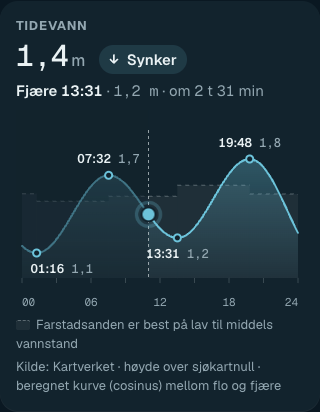
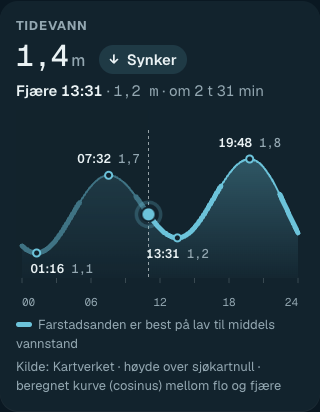
Tidevannskort: foretrukket vannstand vises som tykkere kurve (ikke trappetrinnsbånd), nye skjermbilder (Theodor 16.10)
Andelen av veien fra fjære til flo regnes per halvsyklus som tide.state_at, så den tykke delen følger kurven.
Testen sjekker at den tykke delen ligger på kurven og følger «lav til middels» for Farstadsanden.

diff --git a/docs/js/tidevann.js b/docs/js/tidevann.js
@@ -103,7 +103,7 @@
     const top = mini ? 18 : T, bunn = mini ? Hh - 22 : B;
     const L = PAD, R = W - PAD;
     const X = (t)=> L + (R - L) * (t - d0) / (d1 - d0);
-    const pts = []; for(let i = 0; i <= 240; i++){ const t = d0 + (d1 - d0) * i / 240; const lv = nivaa(ev, t); pts.push(lv ? [t, lv.cm] : null); }
+    const pts = []; for(let i = 0; i <= 240; i++){ const t = d0 + (d1 - d0) * i / 240; const lv = nivaa(ev, t); pts.push(lv ? [t, lv.cm, lv] : null); }
     const ok = pts.filter(Boolean);
     if(ok.length < 2){ el.innerHTML = `<p class="tv-mangler">Tidevann mangler</p>`; return null; }
     const dagEv = ev.filter(e=> e.ms >= d0 && e.ms <= d1);
@@ -114,21 +114,22 @@
     for(const p of pts){ if(!p){ pen = false; continue; } d += `${pen ? "L" : "M"}${X(p[0]).toFixed(1)} ${Y(p[1]).toFixed(1)}`; pen = true; }
     const forste = ok[0], siste = ok[ok.length - 1];
     const omraade = `${d}L${X(siste[0]).toFixed(1)} ${bunn + 10}L${X(forste[0]).toFixed(1)} ${bunn + 10}Z`;
-    // foretrukket vannstand: per halvsyklus (fjære→flo eller flo→fjære) er grensen en andel av den syklusens spenn
-    let baand = "";
+    // foretrukket vannstand (Theodor 16.10): selve kurven tegnes tykkere der vannstanden er innenfor spotens preferanse -
+    // ikke et bånd. Andelen av veien fra fjære til flo regnes per halvsyklus (som tide.state_at), så grensen følger kurven.
+    let dPref = "";
     const r = s.tide_regel;
     if(!mini && r && r.prefer && r.prefer.length){
       const iv = intervaller(r);
-      for(let i = 0; i < ev.length - 1; i++){
-        const a = ev[i], b = ev[i+1]; if(a.type === b.type || b.ms < d0 || a.ms > d1) continue;
-        const fj = a.type === "fjære" ? a : b, fl = a.type === "flo" ? a : b;
-        const x0 = X(Math.max(a.ms, d0)), x1 = X(Math.min(b.ms, d1));
-        for(const [l0, l1] of iv){
-          const yTop = l1 >= 1 ? top - 14 : Y(fj.cm + l1 * (fl.cm - fj.cm)), yBun = l0 <= 0 ? bunn + 10 : Y(fj.cm + l0 * (fl.cm - fj.cm));
-          baand += `<rect class="tv-band" x="${x0.toFixed(1)}" y="${yTop.toFixed(1)}" width="${(x1 - x0).toFixed(1)}" height="${Math.max(0, yBun - yTop).toFixed(1)}"/>`;
-          if(l1 < 1) baand += `<line class="tv-band-kant" x1="${x0.toFixed(1)}" x2="${x1.toFixed(1)}" y1="${yTop.toFixed(1)}" y2="${yTop.toFixed(1)}"/>`;
-          if(l0 > 0) baand += `<line class="tv-band-kant" x1="${x0.toFixed(1)}" x2="${x1.toFixed(1)}" y1="${yBun.toFixed(1)}" y2="${yBun.toFixed(1)}"/>`;
-        }
+      const inne = (p)=>{
+        const lv = p[2], fj = lv.a.type === "fjære" ? lv.a : lv.b, fl = lv.a.type === "flo" ? lv.a : lv.b;
+        if(fl.cm === fj.cm) return false;
+        const f = (p[1] - fj.cm) / (fl.cm - fj.cm);
+        return iv.some(([l0, l1])=> f >= l0 - 1e-9 && f <= l1 + 1e-9);
+      };
+      let penP = false;
+      for(const p of pts){
+        if(!p || !inne(p)){ penP = false; continue; }
+        dPref += `${penP ? "L" : "M"}${X(p[0]).toFixed(1)} ${Y(p[1]).toFixed(1)}`; penP = true;
       }
     }
     const smal = W < 520 || mini;
@@ -148,9 +149,9 @@
     const id = `${esc(s.id)}${mini ? "-m" : ""}`;
     el.innerHTML = `<svg class="tv-svg${mini ? " mini" : ""}" viewBox="0 0 ${W} ${Hh}" width="${W}" height="${Hh}" aria-hidden="true">
       <defs><linearGradient id="tvWg-${id}" x1="0" x2="0" y1="0" y2="1"><stop offset="0" class="tv-g0"/><stop offset="1" class="tv-g1"/></linearGradient></defs>
-      <g class="tv-baand">${baand}</g>
       <path class="tv-area" d="${omraade}" fill="url(#tvWg-${id})"/>
       <path class="tv-curve" d="${d}"/>
+      ${dPref ? `<path class="tv-pref" d="${dPref}"/>` : ""}
       ${gatt}
       <g>${etiketter}</g><g>${akse}</g>
       <g class="tv-marker"><line class="tv-mline" x1="0" x2="0" y1="${top - 14}" y2="${bunn + 10}"/><circle class="tv-ring" r="${mini ? 5 : 7}"/><circle class="tv-dot" r="${mini ? 5 : 7}"/></g>

diff --git a/docs/css/ui.css b/docs/css/ui.css
@@ -398,7 +398,8 @@ h1,h2,h3{margin:0;font-family:var(--display);letter-spacing:-.01em}
 .tv-curve{fill:none;stroke:var(--water);stroke-width:2;stroke-linecap:round}
 .tv-past{fill:var(--raised);opacity:.5}   /* demper delen av dagen som har gått (bare i dag) */
 .tv-g0{stop-color:var(--water-top)} .tv-g1{stop-color:var(--water-soft);stop-opacity:.15}
-.tv-band{fill:var(--band)} .tv-band-kant{stroke:var(--band-edge);stroke-width:1;stroke-dasharray:4 4}
+.tv-pref{fill:none;stroke:var(--water);stroke-width:5;stroke-linecap:round;stroke-linejoin:round;transition:opacity .4s 1s}   /* foretrukket vannstand: tykkere kurve, samme farge */
+.tv-svg.intro .tv-pref{opacity:0} .tv-svg.intro.go .tv-pref{opacity:1}
 .tv-ext circle{fill:var(--raised);stroke:var(--water);stroke-width:2}
 .tv-lbl{font-family:var(--body);font-size:12px;font-weight:600;fill:var(--ink)}
 .tv-lbl .t{font-family:var(--mono);font-weight:500;fill:var(--muted)}
@@ -409,7 +410,7 @@ h1,h2,h3{margin:0;font-family:var(--display);letter-spacing:-.01em}
 .tv-ring{fill:none;stroke:var(--water);stroke-width:2;transform-origin:center;transform-box:fill-box;animation:tvPuls 2.6s ease-out infinite}
 .tv-marker{transition:transform .45s cubic-bezier(.3,.7,.2,1)}
 .tv-fot{display:flex;justify-content:space-between;gap:4px 12px;flex-wrap:wrap;margin-top:6px;color:var(--muted);font-size:var(--fs-caption)}
-.tv-sw{display:inline-block;width:14px;height:10px;border-radius:2px;background:var(--band);border-top:1px dashed var(--band-edge);margin-right:6px;vertical-align:-1px}
+.tv-sw{display:inline-block;width:16px;height:5px;border-radius:3px;background:var(--water);margin-right:6px;vertical-align:2px}
 /* animasjon bare første gang kortet kommer i bildet (IntersectionObserver legger på .go) */
 .tv-svg.intro .tv-curve{stroke-dasharray:var(--len);stroke-dashoffset:var(--len)}
 .tv-svg.intro.go .tv-curve{animation:tvTegn 1.1s cubic-bezier(.3,.7,.2,1) forwards}
@@ -423,6 +424,7 @@ h1,h2,h3{margin:0;font-family:var(--display);letter-spacing:-.01em}
 @keyframes tvPuls{0%{transform:scale(1);opacity:.45}80%,100%{transform:scale(2.6);opacity:0}}
 @media (prefers-reduced-motion: reduce){
   .tv-svg.intro .tv-curve{stroke-dasharray:none;stroke-dashoffset:0;animation:none!important}
+  .tv-svg.intro .tv-pref{opacity:1;transition:none}
   .tv-svg.intro .tv-area,.tv-svg.intro .tv-ext{opacity:1;transform:none;animation:none!important}
   .tv-marker{transition:none} .tv-ring{animation:none;opacity:0}
 }

diff --git a/docs/sw.js b/docs/sw.js
@@ -4,7 +4,7 @@
 // hånd. Må stemme med filene, ellers oppdager ikke nettleseren at
 // sw.js-scriptet er likt som før og lar være å hente nytt innhold, sjøl om
 // siden er pushet (se CLAUDE.md sin arbeidsmåte og STATUS.md, 26.09-03.10.2026).
-const CACHE = "nordsurf-809e386a1310";
+const CACHE = "nordsurf-ae8016eefd66";
 const TILES = CACHE + "-fliser";   // detaljflisene (range-biter), eget tak - byttes sammen med CACHE
 const TILES_MAX_ENTRIES = 600;      // ca. 600 range-biter à 1-60 KB: under ca. 15 MB
 // S3 (16.10.2026): listen hadde to filer som ikke finnes (css/kart.css, js/front.js) - da feiler

diff --git a/fetcher/test_svgtekst_browser.py b/fetcher/test_svgtekst_browser.py
@@ -184,7 +184,23 @@ def main():
                     assert sl.get_attribute("role") == "slider", "grafen er ikke role=slider"
                     vt = sl.get_attribute("aria-valuetext")
                     assert vt == f"11:00, {f1(cm)} meter, {'stiger' if stiger else 'synker'}", f"aria-valuetext {where}: {vt}"
-                    assert page.locator("#tideKort .tv-band").count() >= 1, f"bånd for foretrukket vannstand mangler {where}"
+                    # foretrukket vannstand er selve kurven, tykkere - ikke bånd (Theodor 16.10)
+                    assert page.locator("#tideKort .tv-band").count() == 0, f"trappetrinnsbånd igjen {where}"
+                    assert page.locator("#tideKort .tv-pref").count() == 1, f"foretrukket del av kurven mangler {where}"
+                    pref_ok = page.evaluate("""() => {
+                      const pp = (d) => (d.match(/-?[\\d.]+ -?[\\d.]+/g) || []).map(s => s.split(' ').map(Number));
+                      const c = pp(document.querySelector('#tideKort .tv-curve').getAttribute('d'));
+                      const p = pp(document.querySelector('#tideKort .tv-pref').getAttribute('d'));
+                      const key = (q) => q[0].toFixed(1) + ',' + q[1].toFixed(1);
+                      const ck = new Set(c.map(key));
+                      const ys = c.map(q => q[1]), yTop = Math.min(...ys), yBot = Math.max(...ys);
+                      const pys = p.map(q => q[1]);
+                      return {n: p.length, subset: p.every(q => ck.has(key(q))),
+                              // lav til middels: aldri helt oppe ved flo, men med fjære-bunnen
+                              naarFlo: Math.min(...pys) - yTop, naarFjaere: yBot - Math.max(...pys)};
+                    }""")
+                    assert pref_ok["n"] >= 2 and pref_ok["subset"], f"tykk del ligger ikke på kurven {where}: {pref_ok}"
+                    assert pref_ok["naarFlo"] > 3 and pref_ok["naarFjaere"] < 1, f"tykk del følger ikke «lav til middels» {where}: {pref_ok}"
                     fot = page.text_content("#tideKort .tv-fot").strip()
                     assert "Farstadsanden er best på lav til middels vannstand" in fot, f"forklaringen {where}: {fot}"
                     assert page.locator("#tideKort .tv-past").count() == 1, f"delen av dagen som har gått er ikke dempet {where}"
@@ -223,7 +239,7 @@ def main():
                     # ---- Unstad: ingen preferanse ----
                     go("#spot=unstad")
                     show_card()
-                    assert page.locator("#tideKort .tv-band").count() == 0, f"Unstad har bånd {where}"
+                    assert page.locator("#tideKort .tv-pref").count() == 0, f"Unstad har foretrukket vannstand {where}"
                     assert "Spoten tåler alt tidevann" in page.text_content("#tideKort .tv-fot"), f"Unstad-teksten {where}"
                     ov = page.evaluate(OVERLAP_JS)
                     assert not ov["out"], f"etiketter som overlapper {where} (Unstad): {ov}"
